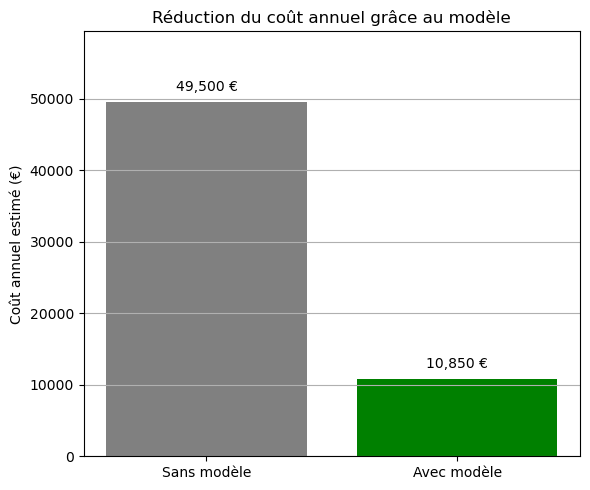
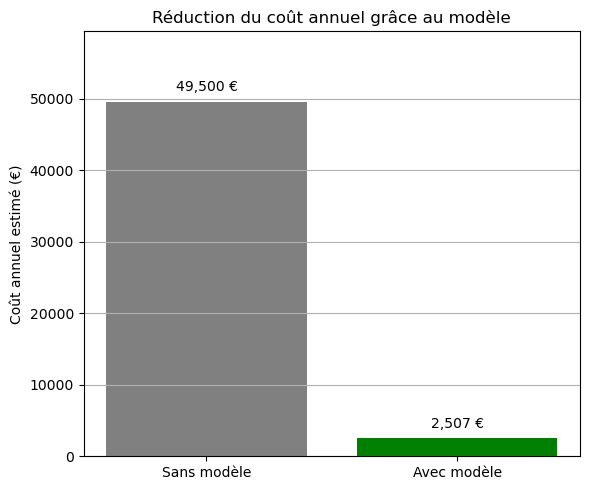
update simulation

Changed region(s): [[0.5797, 0.7347, 0.9458, 0.9184]]

diff --git a/pages/4_🏭_Simulation.py b/pages/4_🏭_Simulation.py
@@ -85,8 +85,7 @@ with tab1:
     )
 
 with tab2:
-    st.markdown(
-    """
+    st.markdown("""
     ### 1.Estimation dynamique du coût des erreurs   
     🔹 Paramètres d’entrée  
 
@@ -99,7 +98,7 @@ with tab2:
 
     - Nombre de pièces défectueuses : Ndefect = N × Pdefect  
     - Faux négatifs (FN) : FN = Ndefect × (1−recall)  
-    - Faux positifs (FP) : FP = (TP/precision) − TP où TP = Ndefect × recallFP   
+    - Faux positifs (FP) : FP = (TP/precision) − TP où TP = Ndefect × recall  
 
     🔹 Coût métier total  
     
@@ -109,43 +108,41 @@ with tab2:
         Coût total = FN × CFN + FP × CFP   
 
     ### 2.Exemple chiffré 
-    | Paramètre      | Valeur                                 |
-    |--------------------|---------------------------------------------|
-    | Nombre total (N)  | 80 000 pièces |
-    | Proportion défectueux  | 8% |
-    | Recall du modèle  | 0.94 |  
-    | Précision du modèle  | 0.78 |  
-    | Coût par FN  | 15€ |  
-    | Coût par FP  | 3€ |   
+    | Paramètre              | Valeur         |
+    |------------------------|----------------|
+    | Nombre total (N)       | 80 000 pièces  |
+    | Proportion défectueux  | 8 %            |
+    | Recall du modèle       | **0.989**      |  
+    | Précision du modèle    | **0.929**      |  
+    | Coût par FN            | 15 €           |  
+    | Coût par FP            | 3 €            |  
 
-    Calcul :
-    - Ndefect = 6 400
-    - FN = 6 400 × (1 − 0.94) = 384
-    - TP = 6 016
-    - FP = 6 016 / 0.78 − 6 016=1 697
-    💰 Coût total = 384×15 + 1 697×3 = 5 760 + 5 091 = 10 851 €
+    **Calcul :**
+    - N_defect = 80 000 × 8 % = 6 400  
+    - FN = 6 400 × (1 − 0.989) = 70.4  
+    - TP = 6 400 − 70.4 = 6 329.6  
+    - FP = (6 329.6 / 0.929) − 6 329.6 ≈ 483.1  
+    💰 **Coût total =** 70.4 × 15 + 483.1 × 3 = **1 056 € + 1 449 € = 2 505 €**
 
-    🔻 Économie annuelle estimée :
-    49 500€ − 10 851€ = 38 649 € économisés
+    🔻 **Économie annuelle estimée :**
+    49 500 € − 2 505 € = **46 995 € économisés**
   
     ### 3.Visualisation des résultats  
     Les graphiques suivants illustrent visuellement l’impact économique du modèle proposé :  
-    
     """)
-    col1, col2 = st.columns(2)
 
+    col1, col2 = st.columns(2)
     with col1:
         st.image("static/final_report1.png", use_container_width=True, caption="Figure 1 – Comparaison des coûts annuels (avec vs sans modèle)")
-   
     with col2:
         st.image("static/final_report2.png", use_container_width=True, caption="Figure 2 – Matrice de confusion pondérée")
 
     st.markdown("""
     ### 4.Commentaires métiers 
 
-    Avec un modèle performant (recall > 90%), TechForm Industries pourrait **réduire de plus de 80%** le coût annuel lié aux défauts non détectés. Même avec un volume non négligeable de faux positifs, **le gain global est significatif**, et justifie l’intégration d’un système de détection automatisé.            
-    """
-    )
+    Avec un modèle performant (recall proche de 99%), TechForm Industries pourrait **réduire de plus de 94 %** le coût annuel lié aux défauts non détectés.  
+    Même avec un volume modéré de faux positifs, **le gain global est significatif** et justifie pleinement l’intégration du système de détection automatisée.            
+    """)
 
 st.markdown("""
 ---

diff --git a/utils/sidebar.py b/utils/sidebar.py
@@ -12,7 +12,7 @@ def render_sidebar():
         st.page_link('pages/3_🧠_Modelization.py', label='Modélisation', icon='🧠')
         st.page_link('pages/4_🏭_Simulation.py', label='Simulation métier', icon='🏭')
         st.markdown("---")
-        
+
         st.image(str(static_dir / "datascientest_logo.png"), width=100)
         st.markdown("**[DataScientest](https://datascientest.com/)**")
         st.markdown("Projet DS - Promotion Bootcamp Mai 2025") 
@@ -29,6 +29,6 @@ def render_sidebar():
         st.markdown("**Alexandre MATHIEU [Linkedin](https://www.linkedin.com/in/alexandre-g-mathieu/)**")
 
         st.image(str(static_dir / "roberto.png"), width=100)
-        st.markdown("**Roberto Vercellin [Linkedin](https://www.linkedin.com/in/roberto-vercellin-3b4a18108/)**")
+        st.markdown("**Roberto VERCELLIN[Linkedin](https://www.linkedin.com/in/roberto-vercellin-3b4a18108/)**")
 
 

diff --git a/pages/3_🧠_Modelization.py b/pages/3_🧠_Modelization.py
@@ -419,7 +419,7 @@ with tab2:
         axs[0, 1].axis("off")
 
         axs[1, 0].imshow(heat_map, cmap='jet')
-        axs[1, 0].set_title(f"Carte de chaleur anomalie\n(score: {anomaly_score:.2f})")
+        axs[1, 0].set_title(f"Heatmap anomalie\n(score: {anomaly_score:.2f})")
         axs[1, 0].axis("off")
 
         seuils = [best_threshold, best_threshold * 1.2, best_threshold * 1.5]
